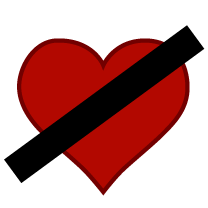
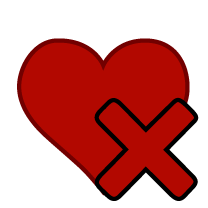
Update Button Graphics

Changed region(s): [[0.0, 0.1154, 0.9808, 0.9808]]

diff --git a/Deliverable4/core/src/fred/plusplus/ToggleSubsystemListener.java b/Deliverable4/core/src/fred/plusplus/ToggleSubsystemListener.java
@@ -30,11 +30,8 @@ public class ToggleSubsystemListener extends Listener {
                 fred.toggleSystem(b.getSubSystem());
                 for (Button b2 : show.getButtons()){
                     if (b2.getSubSystem().equals(b.getSubSystem())){
-                        if (b2.isOn()){
+                        if (b2.isOn()) {
                             b2.tap();
-                        }
-                        else{
-
                         }
                         b2.toggleActivate();
                     }
